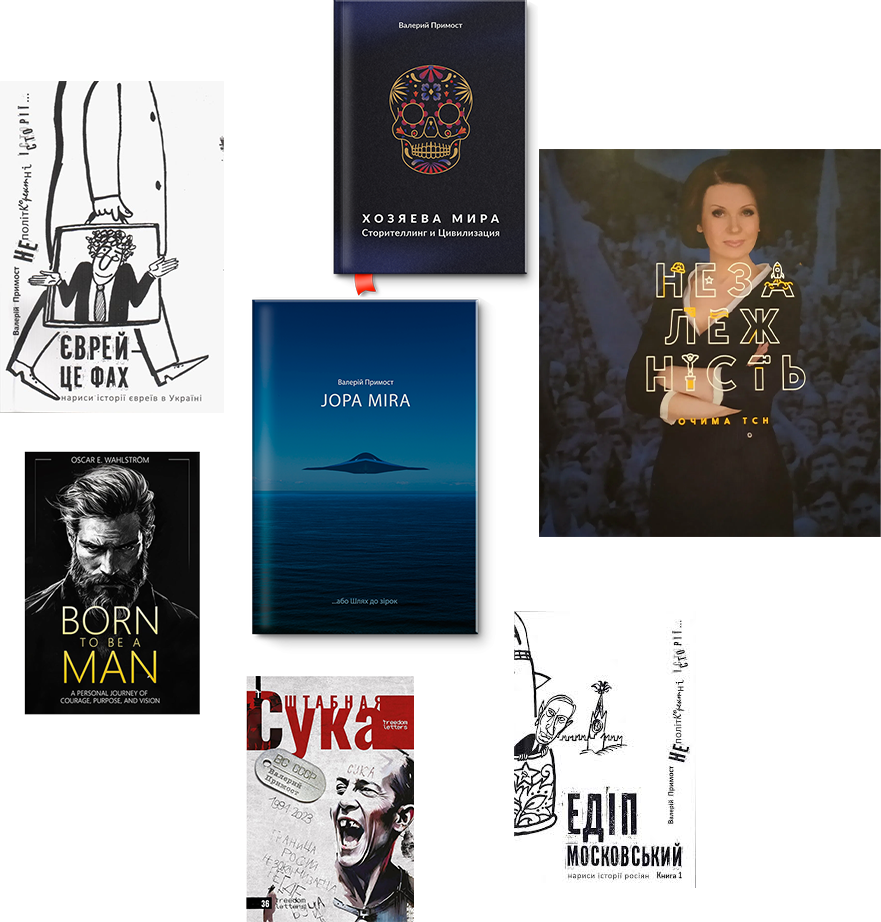
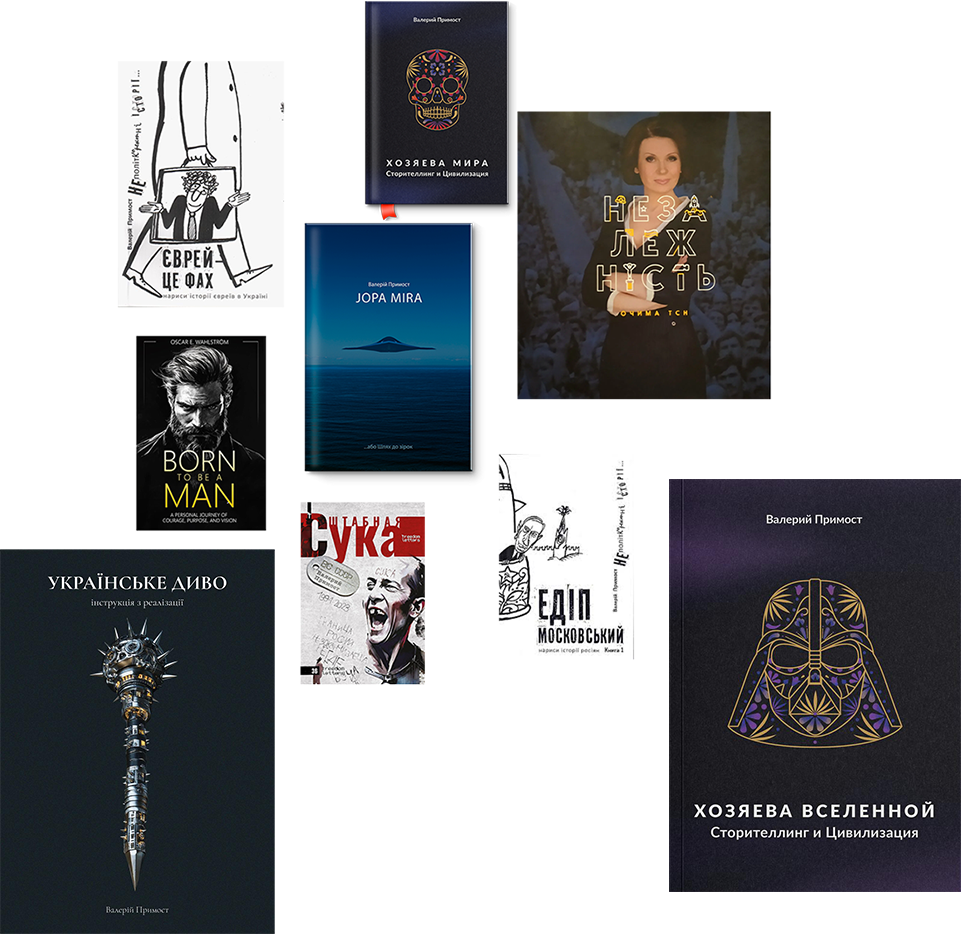
mono

diff --git a/src/components/pages/main/index.tsx b/src/components/pages/main/index.tsx
@@ -9,7 +9,7 @@ export default function Main() {
     <>
       <section>
         <Container>
-          <Wrapper className="py-20 md:py-28">
+          <Wrapper className="py-20 md:py-28 ">
             <ul className="grid grid-cols-1 md:grid-cols-2 gap-4">
               <li className="flex items-center justify-center">
                 <Image
@@ -21,11 +21,40 @@ export default function Main() {
                 />
               </li>
               <li className="content-start">
-                <h1 className="text-xl font-medium">
-                  Сторітеллер світового класу з десятиліттями досвіду створення
-                  переконливих наративів у різних медіа: серіалах, книгах,
-                  рекламі, іграх і додатках.
+                <h1 className="text-xl font-normal">
+                  {`Валерій Примост — стратегічний аналітик із багаторічним
+                  досвідом геополітичного прогнозування та автор унікальної
+                  методології "5 Принципів Ефективності" для аналізу розвитку
+                  націй та організацій.`}
                 </h1>
+              </li>
+            </ul>
+            <ul className="flex flex-col gap-3 mt-8 text-center ">
+              <li>
+                <p className="text-md text-slate-600">
+                  Маючи доведений track record точних довгострокових прогнозів
+                  (включно з передбаченням повномасштабної війни в Україні у
+                  2013 році та президентства Зеленського у 2015-му), він поєднує
+                  глибоку аналітичну експертизу з майстерністю сторітелінгу.{" "}
+                </p>
+              </li>
+              <li>
+                <p className="text-md text-slate-600">
+                  Як багатогранний творець наративів, Валерій успішно працює у
+                  різноманітних сферах — від написання книг з цивілізаційного
+                  аналізу та сценаріїв для телевізійних серіалів до розробки
+                  рекламних кампаній, освітніх лекцій, ігрових механік та
+                  інтерактивних додатків.
+                </p>
+              </li>
+              <li>
+                <p className="text-md text-slate-600">
+                  Його унікальна здатність перетворювати складні стратегічні
+                  концепції на зрозумілі та переконливі історії робить його
+                  затребуваним консультантом для decision-makers у бізнесі,
+                  політиці та інвестиціях, яким необхідно розуміти довгострокові
+                  тренди та приймати обґрунтовані стратегічні рішення
+                </p>
               </li>
             </ul>
           </Wrapper>
@@ -53,6 +82,10 @@ export default function Main() {
                   <li>
                     <p>{`"Хозяева мира. Сторителлинг и Цивилизация”`}</p>
                   </li>
+                  <li>
+                    <p>{`"Хозяева Вселенной. Сторителлинг и Цивилизация”`}</p>
+                  </li>
+
                   <li>
                     <p>{`“Jopa Mira... або Шлях до зірок” (нариси майбутньої України)`}</p>
                   </li>

diff --git a/src/app/(root)/about/page.tsx b/src/app/(root)/about/page.tsx
@@ -7,28 +7,51 @@ export default function AboutPage() {
         <div className="max-w-6xl mx-auto px-4 text-gray-700">
           <div className="pt-10 md:pt-20">
             <h3 className="text-center">Основні досягнення</h3>
-            <ul className="list-disc pl-5">
+            <ul className="pl-5 space-y-2 mt-4">
               <li>
-                <p>17 книжок загальним накладом 150,000+ примірників.</p>
+                <h4 className="font-semibold">Письменник:</h4>
+                <ul className="list-disc pl-5 mt-2">
+                  <li>35 років досвіду</li>
+                  <li>17 книжок (українською, англійською, російською)</li>
+                  <li>150 000+ примірників</li>
+                </ul>
               </li>
               <li>
-                <p>
-                  Сценарії 15 ТБ-фільмів, серіалів та YouTube проектів (загальна
-                  аудиторія: десятки мільйонів).
-                </p>
+                <h4 className="font-semibold">Рекламіст і маркетолог:</h4>
+                <ul className="list-disc pl-5 mt-2">
+                  <li>30 років досвіду</li>
+                  <li>Креативний директор трьох мережевих агенцій</li>
+                  <li>
+                    Десятки рекламних кампаній для української та
+                    загальноєвропейської аудиторій
+                  </li>
+                  <li>
+                    Маркетингові стратегії для великих національних бізнесів
+                  </li>
+                </ul>
               </li>
               <li>
-                <p>
-                  Розробляв та створював міжнародні рекламні кампанії з
-                  загальною аудиторією понад 250 млн осіб.
-                </p>
+                <h4 className="font-semibold">Сценарист:</h4>
+                <ul className="list-disc pl-5 mt-2">
+                  <li>25 років досвіду</li>
+                  <li>10 сценаріїв ТВ-фільмів та серіалів</li>
+                  <li>Багатомільйонні аудиторії</li>
+                </ul>
               </li>
               <li>
-                <p>
-                  Переможець і номінант 10+ професійних нагород у галузях
-                  реклами, ТБ та літератури.
-                </p>
+                <h4 className="font-semibold">Стратегічний аналітик:</h4>
+                <ul className="list-disc pl-5 mt-2">
+                  <li>15 років досвіду</li>
+                  <li>Власна методологія «5 Принципів Ефективності»</li>
+                  <li>Низка точних передбачень</li>
+                </ul>
               </li>
+              <li>Мислитель, який розуміє закони, що рухають нашим світом.</li>
+              <li>
+                Сторітеллер, який захопливо розповість вам про те, як усе
+                працює.
+              </li>
+              <li>Велика душа, яка щиро прагне змінити цей світ на краще.</li>
             </ul>
           </div>
         </div>

diff --git a/src/app/(root)/layout.tsx b/src/app/(root)/layout.tsx
@@ -1,10 +1,10 @@
 import Footer from "@/components/modules/footer/footer";
 import MainHeader from "@/components/modules/headers/MainHeader";
-import { Playpen_Sans } from "next/font/google";
+import { Montserrat } from "next/font/google";
 
-const geist = Playpen_Sans({
+const geist = Montserrat({
   weight: ["300", "400", "500", "600", "700", "800"],
-  subsets: ["emoji", "latin", "latin-ext", "math", "vietnamese"],
+  subsets: ["latin", "latin-ext", "vietnamese"],
   display: "swap",
 });
 

diff --git a/src/app/(privet)/admin/blog-edit/page.tsx b/src/app/(privet)/admin/blog-edit/page.tsx
@@ -1,3 +1,4 @@
+export const dynamic = "force-dynamic";
 import { getAllPosts } from "@/actions/blog.actions";
 import Container from "@/components/shared/Container";
 import PostCard from "@/components/shared/PostCurd";

diff --git a/src/app/(root)/blog/page.tsx b/src/app/(root)/blog/page.tsx
@@ -1,5 +1,4 @@
 export const dynamic = "force-dynamic";
-
 import { getAllPosts } from "@/actions/blog.actions";
 import BackBtn from "@/components/shared/BackBtn";
 import Container from "@/components/shared/Container";
